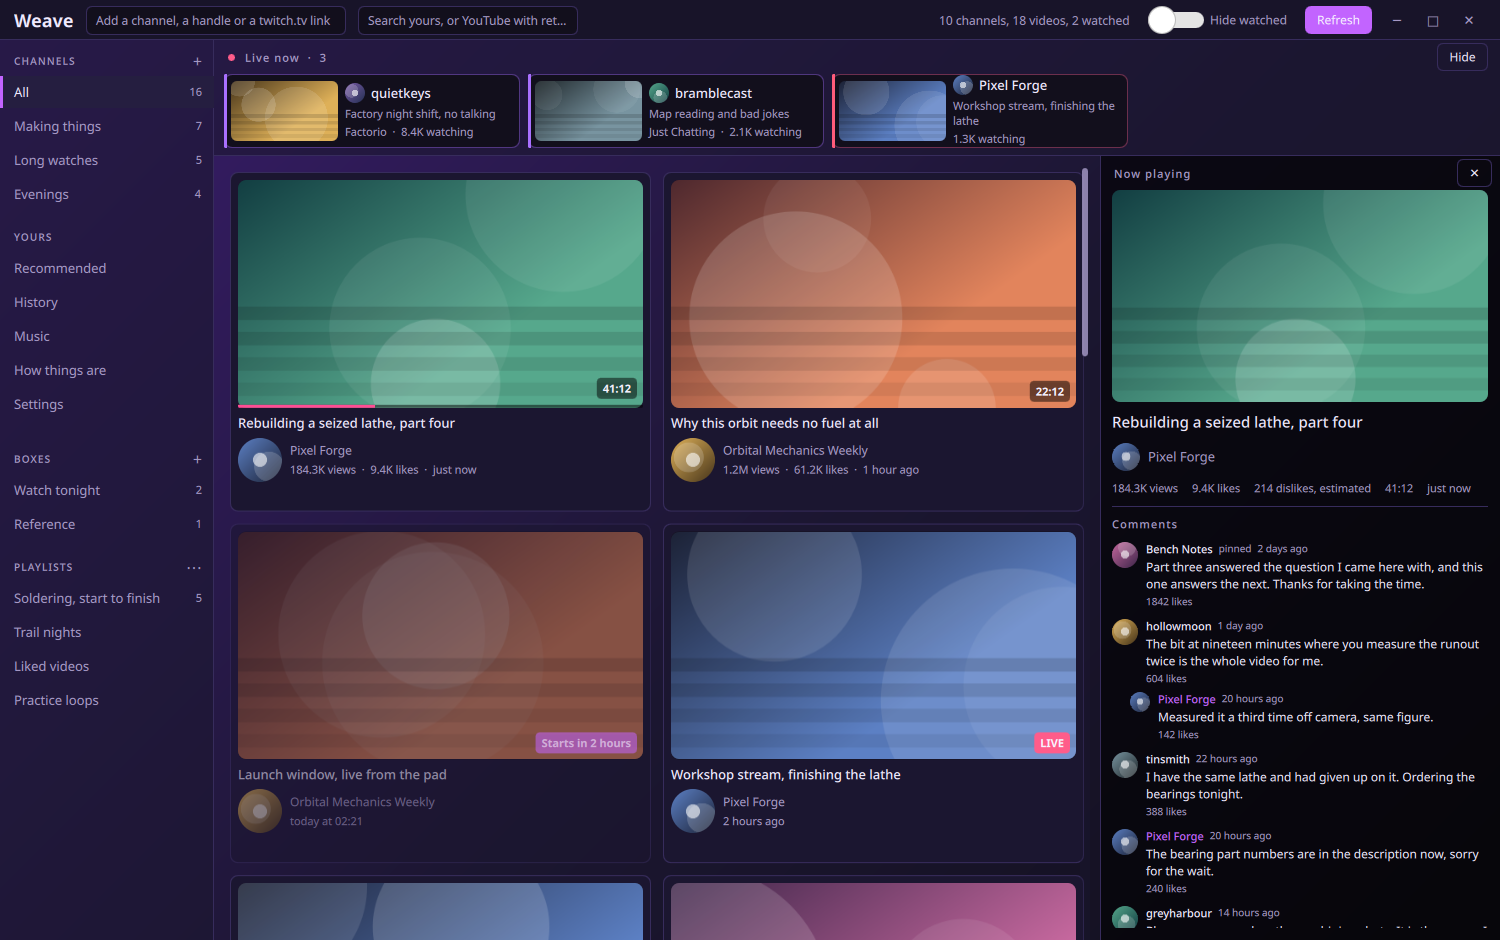
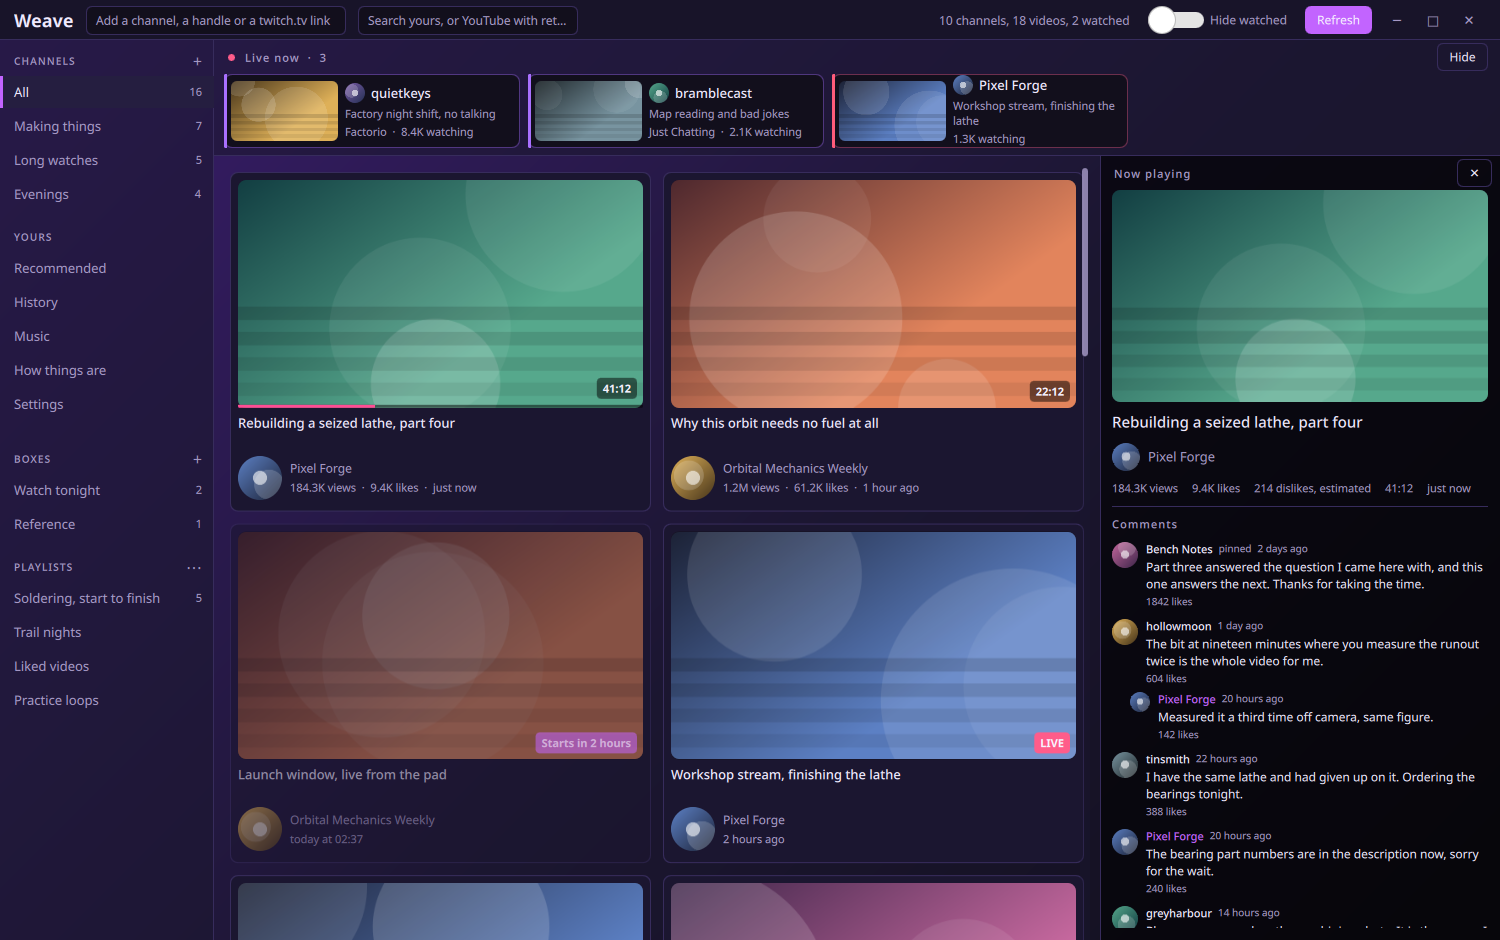
Line the cards up, and let a listing say a stream is a stream
Three things were out of step from card to card. A title of one line
pulled everything under it up, so the title box is always two lines tall
now, sized from a hidden two line copy rather than from a number, since
the line height belongs to whichever font the platform loaded. A row from
a channel with no picture stored shrank to its text, so the channel row
is as tall as the picture whether there is one to draw or not. Between
them the picture, the channel, the counts and the date sit at the same
height on every card in the grid.

The other half is that a search result and a suggestion could be a stream
and never said so. The flat listing carries live_status and a release
time and both were being dropped on the floor, so the same stream that is
badged in the feed looked like an ordinary video the moment it was
reached from anywhere else, and an announced premiere could be handed to
a player with nothing to open. They are parsed now, stored beside the
suggestions and the history, carried through the join a search result
gets instead of a table, and the card and the play path read them exactly
as they read a feed row.

diff --git a/weave/qml/VideoCard.qml b/weave/qml/VideoCard.qml
@@ -161,15 +161,35 @@ Rectangle {
             }
         }
 
-        Text {
+        // Always as tall as two lines, whether the title needs them or not.
+        // Sized from a hidden two line copy rather than from a number, since
+        // the line height belongs to the font the platform actually loaded.
+        // Without this a one line title pulled the channel row up and nothing
+        // below the picture lined up from card to card.
+        Item {
             width: parent.width
-            text: card.title
-            color: card.watched ? Theme.colors.watchedDim : Theme.colors.text
-            font.pixelSize: 13
-            font.weight: Font.DemiBold
-            wrapMode: Text.Wrap
-            maximumLineCount: 2
-            elide: Text.ElideRight
+            height: titleSizer.height
+
+            Text {
+                id: titleSizer
+                visible: false
+                text: "Ag\nAg"
+                font: titleText.font
+            }
+
+            Text {
+                id: titleText
+                anchors.left: parent.left
+                anchors.right: parent.right
+                anchors.top: parent.top
+                text: card.title
+                color: card.watched ? Theme.colors.watchedDim : Theme.colors.text
+                font.pixelSize: 13
+                font.weight: Font.DemiBold
+                wrapMode: Text.Wrap
+                maximumLineCount: 2
+                elide: Text.ElideRight
+            }
         }
 
         // The channel line is its own click target, so a left click here opens
@@ -179,10 +199,16 @@ Rectangle {
         Row {
             id: channelRow
             width: parent.width
+            // As tall as the picture whether there is one or not. A listing
+            // from a channel nothing is stored about has no picture to draw,
+            // and letting the row shrink to its text put those cards half a
+            // line out of step with the rest of the grid.
+            height: 44
             spacing: 8
 
             RoundedImage {
                 id: avatar
+                anchors.verticalCenter: parent.verticalCenter
                 width: 44
                 height: 44
                 circle: true

diff --git a/weave/db.py b/weave/db.py
@@ -19,7 +19,7 @@ from dataclasses import dataclass
 from pathlib import Path
 from typing import Any
 
-SCHEMA_VERSION = 25
+SCHEMA_VERSION = 26
 
 # A Short is at most three minutes. Anything longer needs no further test.
 SHORTS_CEILING_S = 180
@@ -318,6 +318,12 @@ _ADDED_COLUMNS: tuple[tuple[str, str, str], ...] = (
     # the feed. Existing rows default to being in All, since everything stored
     # before this was followed by hand.
     ("channels", "in_all", "INTEGER NOT NULL DEFAULT 1"),
+    # A search result and a suggestion can be a stream that is on now or one
+    # that is announced, exactly as a feed row can, and the flat listing says
+    # which without being asked twice. Kept so the card can badge it and the
+    # play path can refuse to hand an announced stream to a player.
+    ("cached_videos", "live_status", "TEXT"),
+    ("cached_videos", "scheduled_at", "INTEGER"),
 )
 
 
@@ -1384,12 +1390,13 @@ class Database:
             conn.executemany(
                 "INSERT INTO cached_videos(kind, ext_id, title, channel_name, "
                 "  channel_ext_id, duration_s, thumbnail_url, views, published_at, "
-                "  position, seen_at) "
-                "VALUES(?,?,?,?,?,?,?,?,?,?,?) ON CONFLICT DO NOTHING",
+                "  live_status, scheduled_at, position, seen_at) "
+                "VALUES(?,?,?,?,?,?,?,?,?,?,?,?,?) ON CONFLICT DO NOTHING",
                 [(kind, row["ext_id"], row["title"], row.get("channel_name"),
                   row.get("channel_ext_id"), row.get("duration_s"),
                   row.get("thumbnail_url"), row.get("views"),
-                  row.get("published_at"), index, now)
+                  row.get("published_at"), row.get("live_status"),
+                  row.get("scheduled_at"), index, now)
                  for index, row in enumerate(rows)],
             )
         self.set_state(f"{kind}_at", str(now))
@@ -1413,12 +1420,13 @@ class Database:
             conn.executemany(
                 "INSERT INTO cached_videos(kind, ext_id, title, channel_name, "
                 "  channel_ext_id, duration_s, thumbnail_url, views, published_at, "
-                "  position, seen_at) "
-                "VALUES(?,?,?,?,?,?,?,?,?,?,?) ON CONFLICT DO NOTHING",
+                "  live_status, scheduled_at, position, seen_at) "
+                "VALUES(?,?,?,?,?,?,?,?,?,?,?,?,?) ON CONFLICT DO NOTHING",
                 [(kind, row["ext_id"], row["title"], row.get("channel_name"),
                   row.get("channel_ext_id"), row.get("duration_s"),
                   row.get("thumbnail_url"), row.get("views"),
-                  row.get("published_at"), start + index, now)
+                  row.get("published_at"), row.get("live_status"),
+                  row.get("scheduled_at"), start + index, now)
                  for index, row in enumerate(rows)],
             )
             return conn.total_changes - before
@@ -1449,7 +1457,8 @@ class Database:
                    r.duration_s                AS duration_s,
                    r.views                     AS views,
                    NULL                        AS likes,
-                   NULL                        AS live_status,
+                   r.live_status               AS live_status,
+                   r.scheduled_at              AS scheduled_at,
                    COALESCE(c.title, r.channel_name) AS channel_title,
                    c.avatar_url                AS avatar_url,
                    w.video_key IS NOT NULL     AS watched
@@ -1526,7 +1535,9 @@ class Database:
                 "title": row["title"], "published_at": row.get("published_at"),
                 "thumbnail_url": row.get("thumbnail_url"),
                 "duration_s": row.get("duration_s"),
-                "views": row.get("views"), "likes": None, "live_status": None,
+                "views": row.get("views"), "likes": None,
+                "live_status": row.get("live_status"),
+                "scheduled_at": row.get("scheduled_at"),
                 "channel_title": (channel["title"] if channel else None)
                                  or row.get("channel_name") or "",
                 "avatar_url": channel["avatar_url"] if channel else None,

diff --git a/tests/test_streams_in_listings.py b/tests/test_streams_in_listings.py
@@ -1,0 +1,85 @@
+"""A stream in a search, in the suggestions or in the history.
+
+The feed has badged streams and announced premieres since they were built,
+because a feed row says which it is. A listing says the same thing and it was
+being thrown away, so the same video looked like an ordinary one the moment it
+was reached from somewhere else, and an announced premiere could be handed to
+a player that has nothing to open yet.
+"""
+
+import tempfile
+import time
+import unittest
+from pathlib import Path
+
+from weave.db import Database
+from weave.ui.feed_model import FeedModel
+
+
+def listing_row(ext_id="aaaaaaaaaaa", **over):
+    row = {"ext_id": ext_id, "title": "A video", "channel_name": "Someone",
+           "channel_ext_id": None, "duration_s": None, "thumbnail_url": None,
+           "views": None, "published_at": None, "live_status": None,
+           "scheduled_at": None}
+    row.update(over)
+    return row
+
+
+class StoredWithTheSuggestions(unittest.TestCase):
+    def setUp(self) -> None:
+        self.db = Database(Path(tempfile.mkdtemp()) / "weave.db")
+
+    def cards(self, kind):
+        return [FeedModel._build(row) for row in self.db.cached(kind)]
+
+    def test_a_stream_that_is_on_is_marked_live(self) -> None:
+        self.db.replace_cached(self.db.RECOMMENDED,
+                               [listing_row(live_status="is_live")])
+        card = self.cards(self.db.RECOMMENDED)[0]
+        self.assertTrue(card["isLive"])
+        self.assertFalse(card["isUpcoming"])
+
+    def test_an_announced_stream_carries_both_ways_of_saying_when(self) -> None:
+        # An hour off, so the badge counts in hours rather than saying it is
+        # too far away to phrase.
+        soon = int(time.time()) + 3600
+        self.db.replace_cached(self.db.RECOMMENDED, [listing_row(
+            live_status="is_upcoming", scheduled_at=soon)])
+        card = self.cards(self.db.RECOMMENDED)[0]
+        self.assertTrue(card["isUpcoming"])
+        # The badge counts down, the line under the channel says the hour.
+        self.assertTrue(card["scheduledText"].startswith("Starts in"))
+        self.assertIn(" at ", card["startsText"])
+
+    def test_an_ordinary_suggestion_is_neither(self) -> None:
+        self.db.replace_cached(self.db.RECOMMENDED, [listing_row()])
+        card = self.cards(self.db.RECOMMENDED)[0]
+        self.assertFalse(card["isLive"] or card["isUpcoming"])
+
+    def test_a_later_page_keeps_it_too(self) -> None:
+        self.db.replace_cached(self.db.RECOMMENDED, [listing_row()])
+        self.db.append_cached(self.db.RECOMMENDED,
+                              [listing_row("bbbbbbbbbbb", live_status="is_live")])
+        self.assertTrue(self.cards(self.db.RECOMMENDED)[1]["isLive"])
+
+    def test_the_history_side_carries_it_as_well(self) -> None:
+        self.db.replace_cached(self.db.HISTORY, [listing_row(live_status="is_live")])
+        self.assertTrue(self.cards(self.db.HISTORY)[0]["isLive"])
+
+
+class ResultsThatAreNotStored(unittest.TestCase):
+    """A search result lives in memory and is joined to what is known here."""
+
+    def setUp(self) -> None:
+        self.db = Database(Path(tempfile.mkdtemp()) / "weave.db")
+
+    def test_a_live_result_reaches_the_card(self) -> None:
+        row = self.db.decorate([listing_row(live_status="is_live")])[0]
+        self.assertTrue(FeedModel._build(row)["isLive"])
+
+    def test_an_announced_result_reaches_the_card(self) -> None:
+        row = self.db.decorate([listing_row(live_status="is_upcoming",
+                                            scheduled_at=int(time.time()) + 3600)])[0]
+        card = FeedModel._build(row)
+        self.assertTrue(card["isUpcoming"])
+        self.assertIn(" at ", card["startsText"])

diff --git a/tools/shots.py b/tools/shots.py
@@ -333,18 +333,24 @@ def seed(theme: str, height: int = HEIGHT) -> None:
 
     # What the service suggests, and the history it keeps, both their own
     # tables so nothing of this reaches the feed.
+    # Two of them are streams, since a listing says which and the card badges
+    # them the same way a feed row is badged.
     db.replace_cached("recommended", [{
         "ext_id": f"mockrec{index:03d}", "title": title,
         "channel_name": name, "channel_ext_id": None,
-        "duration_s": 480 + index * 211, "views": 88_000 + index * 41_000,
+        "duration_s": None if index in (1, 4) else 480 + index * 211,
+        "views": 88_000 + index * 41_000,
         "published_at": NOW - (index + 1) * DAY,
+        "live_status": ("is_live" if index == 1
+                        else "is_upcoming" if index == 4 else None),
+        "scheduled_at": NOW + 5 * 3600 if index == 4 else None,
         "thumbnail_url": thumb(f"rec{index:02d}", index + 81),
     } for index, (title, name) in enumerate([
         ("A workshop built into a stairwell", "Copper & Coil"),
-        ("The quietest fan I could find", "Bench Notes"),
+        ("Soldering along, live for an hour", "Bench Notes"),
         ("Two weeks of bread, one starter", "The Slow Kitchen"),
         ("Mapping a cave with a phone", "Northern Trailhead"),
-        ("Why rockets throttle down", "Orbital Mechanics Weekly"),
+        ("Launch day, the whole descent", "Orbital Mechanics Weekly"),
         ("Light, and how a lens bends it", "Lantern Studio"),
         ("One shelf, no screws", "Pixel Forge"),
         ("Recording rain properly", "Field Recordings"),
@@ -535,6 +541,35 @@ def shot_playlist(bridge, window) -> None:
     settle(1.2)
 
 
+# What a search of YouTube itself comes back with. Offline nothing arrives, so
+# the answer is handed to the bridge the way the worker would hand it over.
+SEARCH_RESULTS = [
+    ("Turning a taper without a taper attachment", "Pixel Forge", 1_204, 51_200, None, None),
+    ("Live from the bench, finishing the lathe", "Pixel Forge", None, 2_180, "is_live", None),
+    ("Premiere, the whole rebuild in one cut", "Pixel Forge", None, None, "is_upcoming", 4 * 3600),
+    ("Lathe basics for somebody with no lathe", "Bench Notes", 2_311, 88_400, None, None),
+    ("Cutting threads, slowly and badly", "Copper & Coil", 940, 12_050, None, None),
+    ("A lathe rescued from a barn", "Field Recordings", 3_120, 33_900, None, None),
+]
+
+
+def shot_search(bridge, _window) -> None:
+    bridge.search("lathe")
+    settle(0.4)
+    bridge._search_scope = "youtube"
+    rows = [{
+        "ext_id": f"mocksearch{index:02d}", "title": title, "channel_name": channel,
+        "channel_ext_id": f"UCmock{0:018d}" if channel == "Pixel Forge" else None,
+        "duration_s": duration, "views": views,
+        "published_at": None if live else NOW - (index + 2) * DAY,
+        "live_status": live, "scheduled_at": NOW + starts if starts else None,
+        "thumbnail_url": thumb(f"search{index:02d}", index + 101),
+    } for index, (title, channel, duration, views, live, starts)
+        in enumerate(SEARCH_RESULTS)]
+    bridge._on_web_results("lathe", 1, rows)
+    settle(1.4)
+
+
 def shot_suggestions(bridge, _window) -> None:
     bridge.showRecommended()
     settle(1.4)
@@ -568,6 +603,7 @@ SHOTS = {
     "channel": ("Deep Sea", shot_channel, HEIGHT),
     "playlist": ("Paper", shot_playlist, HEIGHT),
     "suggestions": ("Aurora", shot_suggestions, HEIGHT),
+    "search": ("Ultraviolet", shot_search, HEIGHT),
     "history": ("Linen", shot_history, HEIGHT),
     "themes": ("Sunset Drive", shot_themes, 1080),
 }

diff --git a/weave/sources/flatlist.py b/weave/sources/flatlist.py
@@ -23,7 +23,12 @@ from dataclasses import dataclass
 from ..ids import CHANNEL_ID, is_video_id
 
 FIELDS = ("%(id)s\t%(title)s\t%(channel)s\t%(channel_id)s\t%(duration)s"
-          "\t%(thumbnails.-1.url)s\t%(view_count)s\t%(timestamp)s")
+          "\t%(thumbnails.-1.url)s\t%(view_count)s\t%(timestamp)s"
+          # A stream is a listing like any other here, and neither of these
+          # costs a request, so what the feed already knows about one is known
+          # in a search and in the suggestions too. Ordinary videos answer NA
+          # to both, measured, rather than saying not_live.
+          "\t%(live_status)s\t%(release_timestamp)s")
 
 # What turns "3 weeks ago" in the listing into a date. YouTube sends the age of
 # a video in every listing as a relative phrase, and yt-dlp parses it only when
@@ -43,6 +48,8 @@ class FlatVideo:
     thumbnail_url: str | None = None
     views: int | None = None
     published_at: int | None = None
+    live_status: str | None = None
+    scheduled_at: int | None = None
 
 
 # The exact titles YouTube substitutes for a playlist entry it will not
@@ -95,6 +102,8 @@ def parse(text: str) -> list[FlatVideo]:
             thumbnail_url=_field(parts, 5),
             views=_number(parts[6]) if len(parts) > 6 else None,
             published_at=_number(parts[7]) if len(parts) > 7 else None,
+            live_status=_field(parts, 8),
+            scheduled_at=_number(parts[9]) if len(parts) > 9 else None,
         ))
     return out
 
@@ -106,4 +115,5 @@ def as_row(item: FlatVideo) -> dict:
         "channel_name": item.channel_name, "channel_ext_id": item.channel_ext_id,
         "duration_s": item.duration_s, "thumbnail_url": item.thumbnail_url,
         "views": item.views, "published_at": item.published_at,
+        "live_status": item.live_status, "scheduled_at": item.scheduled_at,
     }

diff --git a/tests/test_recommended.py b/tests/test_recommended.py
@@ -64,3 +64,42 @@ class ParseLines(unittest.TestCase):
 
 if __name__ == "__main__":
     unittest.main()
+
+
+class StreamsInTheseLists(unittest.TestCase):
+    """A stream is a listing like any other here.
+
+    A suggestion or a search result can be a channel that is live now or a
+    premiere that has been announced, and the flat listing says which without
+    a second request. Reading it is what lets the card badge them the way a
+    feed row is badged, and what lets the play path refuse one that has not
+    begun.
+    """
+
+    LIVE = ("bbbbbbbbbbb\tOn air now\tSome channel\tUCabcdefghijklmnopqrstuv\tNA"
+            "\thttps://i/x.jpg\t1200\tNA\tis_live\tNA")
+    SOON = ("ccccccccccc\tStarting later\tSome channel\tUCabcdefghijklmnopqrstuv\tNA"
+            "\thttps://i/x.jpg\tNA\tNA\tis_upcoming\t1800000000")
+
+    def test_a_stream_that_is_on_says_so(self):
+        item = recommended.parse_lines(self.LIVE)[0]
+        self.assertEqual(item.live_status, "is_live")
+        self.assertIsNone(item.scheduled_at)
+
+    def test_an_announced_stream_carries_when_it_begins(self):
+        item = recommended.parse_lines(self.SOON)[0]
+        self.assertEqual((item.live_status, item.scheduled_at),
+                         ("is_upcoming", 1800000000))
+
+    def test_an_ordinary_video_answers_neither(self):
+        # Measured: yt-dlp says NA rather than not_live for these.
+        item = recommended.parse_lines(REAL)[0]
+        self.assertIsNone(item.live_status)
+        self.assertIsNone(item.scheduled_at)
+
+    def test_the_row_handed_on_carries_both(self):
+        from weave.sources import flatlist
+
+        row = flatlist.as_row(recommended.parse_lines(self.SOON)[0])
+        self.assertEqual((row["live_status"], row["scheduled_at"]),
+                         ("is_upcoming", 1800000000))

diff --git a/weave/ui/feed_model.py b/weave/ui/feed_model.py
@@ -88,13 +88,12 @@ class FeedModel(QAbstractListModel):
 
     @staticmethod
     def _build(row) -> dict:
-        # scheduled_at is only on the videos table. Recommendations, playlist
-        # items and search results are shaped the same otherwise, so a source
-        # that has never heard of a scheduled stream is asked rather than
-        # assumed, instead of raising on a column it never selected. `in row`
-        # alone would not do here: a sqlite3.Row tests membership against its
-        # values, not its column names, unlike the plain dict a few callers
-        # still hand in.
+        # The feed, the suggestions, the history and a search all carry a
+        # scheduled time now. A playlist entry does not, so the column is asked
+        # for rather than assumed, instead of raising on one a source never
+        # selected. `in row` alone would not do here: a sqlite3.Row tests
+        # membership against its values, not its column names, unlike the plain
+        # dict a few callers still hand in.
         scheduled_at = row["scheduled_at"] if "scheduled_at" in row.keys() else None  # noqa: SIM118
         is_upcoming = row["live_status"] == "is_upcoming"
         return {
